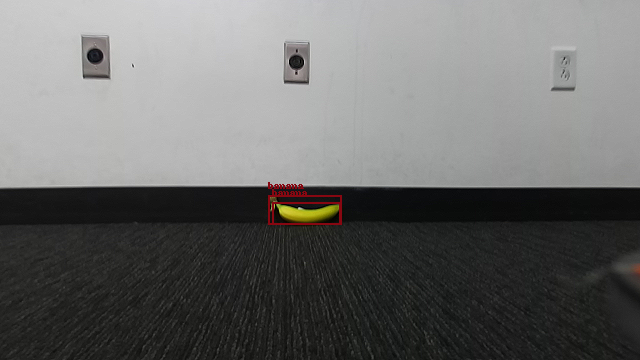
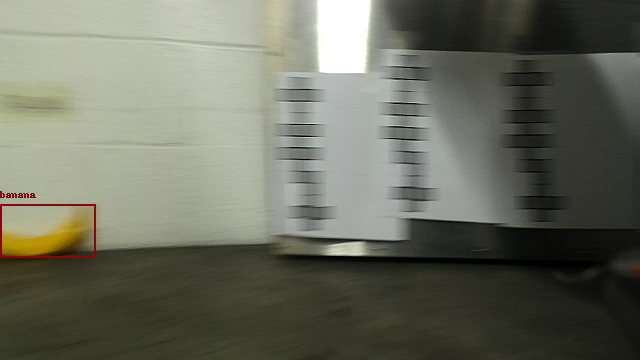
most recent working with banana parking + pickup and then backup, but not with scout

diff --git a/final_challenge2025/final_challenge2025/shrinkray_heist/state_machine.py b/final_challenge2025/final_challenge2025/shrinkray_heist/state_machine.py
@@ -117,9 +117,9 @@ class StateMachine(Node):
         self.x_error_integral = 0
         self.previous_x_error = 0
         self.previous_time = Time() 
-        self.kp = 1.0 
+        self.kp = 2.0
         self.ki = 0.0 
-        self.kd = 0.5
+        self.kd = 1.0
         self.banana_x = None 
         self.banana_y = None
 
@@ -179,9 +179,6 @@ class StateMachine(Node):
             self.detector_states["banana"] = "NONE"
 
             if label == 'traffic light':
-                if y2 < image.shape[0]//3 or confidence < 0.5:
-                    continue
-
                 self.get_logger().info("traffic light detected ahead")
                 hsv = cv2.cvtColor(region, cv2.COLOR_BGR2HSV)
                 area = region.shape[0] * region.shape[1]
@@ -192,19 +189,19 @@ class StateMachine(Node):
                 my = cv2.inRange(hsv, (60, 220, 160), (119, 255, 255))
                 yellow_count = cv2.countNonZero(my)
                 # green
-                mg = cv2.inRange(hsv, (0, 220, 160), (59, 255, 255))
+                mg = cv2.inRange(hsv, (0, 220, 130), (59, 255, 255))
                 green_count = cv2.countNonZero(mg)
 
                 debug_msg = self.bridge.cv2_to_imgmsg(stop_mask+my+mg, "mono8")
                 self.debug_pub.publish(debug_msg)
-                if red_count > 0.005 * area:
+                if red_count > 0.02 * area:
                     self.detector_states[label] = 'RED'
                     self.red_detected = True
                     self.get_logger().info('RED TRAFFIC LIGHT!')
                 elif yellow_count > 0.035 * area:
                     self.detector_states[label] = 'YELLOW'
                     self.get_logger().info('YELLOW TRAFFIC LIGHT!')
-                elif green_count > 0.035 * area:
+                elif green_count > 0.005 * area:
                     self.detector_states[label] = 'GREEN'
                     self.red_detected = False
                     self.get_logger().info('GREEN TRAFFIC LIGHT!')
@@ -232,8 +229,7 @@ class StateMachine(Node):
         if self.state == HeistState.IDLE:
             if self.start_pose and len(self.goals) >= 2:
                 self.goal_idx = 0
-                # self.state = HeistState.PLAN_TRAJ
-                self.state = HeistState.SCOUT
+                self.state = HeistState.PLAN_TRAJ
         elif self.state == HeistState.PLAN_TRAJ:
             if self.goal_idx == 0: 
                 self.plan_path(self.start_pose.pose, self.goals[0])
@@ -244,20 +240,11 @@ class StateMachine(Node):
                 self.plan_path(curr_pose.pose, self.goals[1])
             self.state = HeistState.FOLLOW_TRAJ
         elif self.state == HeistState.FOLLOW_TRAJ:
-            if not self.red_detected and self.detector_states["traffic light"] == 'RED':
+            if (not self.red_detected and self.detector_states["traffic light"] == 'RED') or self.red_detected:
                 self.red_detected = True
                 self.get_logger().info("STOPPING due to red light.")
                 self.publish_drive_cmd(0.0, 0.0)
                 return
-
-            if self.red_detected:
-                if self.detector_states["traffic light"] in ('GREEN'):
-                    self.red_detected = False
-                    self.get_logger().info("Done waiting for traffic, proceeding.")
-                else:
-                    self.get_logger().info("STOPPING due to red light.")
-                    self.publish_drive_cmd(0.0, 0.0)
-                    return
             
             if self.odom_msg: 
                 self.follow_trajectory(self.odom_msg)
@@ -293,7 +280,7 @@ class StateMachine(Node):
             else: 
                 velocity = -0.5 if reverse else 0.5 
 
-            if np.sqrt((self.banana_x)**2 + (self.banana_y)**2) < 0.75: 
+            if np.sqrt((self.banana_x)**2 + (self.banana_y)**2) < 0.8: 
                 self.state = HeistState.PICKUP
                 self.get_logger().info("PARKING DONE")
                 self.publish_drive_cmd(0.0, 0.0)
@@ -308,8 +295,10 @@ class StateMachine(Node):
             elapsed = (self.get_clock().now().nanoseconds
                - self.pickup_start_time.nanoseconds) / 1e9
             
-            if elapsed < 5.0:
+            if elapsed < 10.0:
                 self.publish_drive_cmd(0.0, 0.0)
+            elif elapsed < 14.0: 
+                self.publish_drive_cmd(-0.6, 0.0)
             else:
                 # stop, reset timer to None, and advance state
                 self.publish_drive_cmd(0.0, 0.0)
@@ -327,7 +316,7 @@ class StateMachine(Node):
             curr_pose = PoseWithCovarianceStamped()
             curr_pose.header = self.odom_msg.header
             curr_pose.pose = self.odom_msg.pose
-            self.plan_plan(curr_pose, self.start_pose)
+            self.plan_path(curr_pose.pose, self.start_pose)
             self.follow_trajectory(self.odom_msg)
             self.get_logger().info("Escapinggg...")
 

diff --git a/final_challenge2025/final_challenge2025/safety_controller.py b/final_challenge2025/final_challenge2025/safety_controller.py
@@ -20,7 +20,7 @@ class SafetyController(Node):
         self.current_steer = 0.0 # current angle based off drive msgs
         self.step_brake_speed = 0.0  # Slow down to this speed before stop (instead of hard stop immediately)
         self.hard_stop_speed = 0.0   # Full stop speed
-        self.min_slowing_distance = 1.5  # distance to start slowing down (m)
+        self.min_slowing_distance = 0.5  # distance to start slowing down (m)
 
         self.lookahead_angle = np.pi/36  #narrower cone: +/- 5 deg
 
@@ -86,6 +86,7 @@ class SafetyController(Node):
         # Self-explanatory
         if closest_pt < stop_thresh:
             self.publish_stop_command()
+            self.get_logger().info("stopping")
             #self.record_data(closest_pt, self.hard_stop_speed, "STOP")
         elif closest_pt < self.min_slowing_distance:
             self.publish_brake_command()

diff --git a/final_challenge2025/final_challenge2025/shrinkray_heist/model/detector.py b/final_challenge2025/final_challenge2025/shrinkray_heist/model/detector.py
@@ -13,7 +13,7 @@ def _label_to_color(label):
 
 
 class Detector:
-    def __init__(self, yolo_dir="/root/yolo", from_tensor_rt=True, threshold=0.1):
+    def __init__(self, yolo_dir="/root/yolo", from_tensor_rt=True, threshold=0.6):
         # local import
         from ultralytics import YOLO
         cls = YOLO
